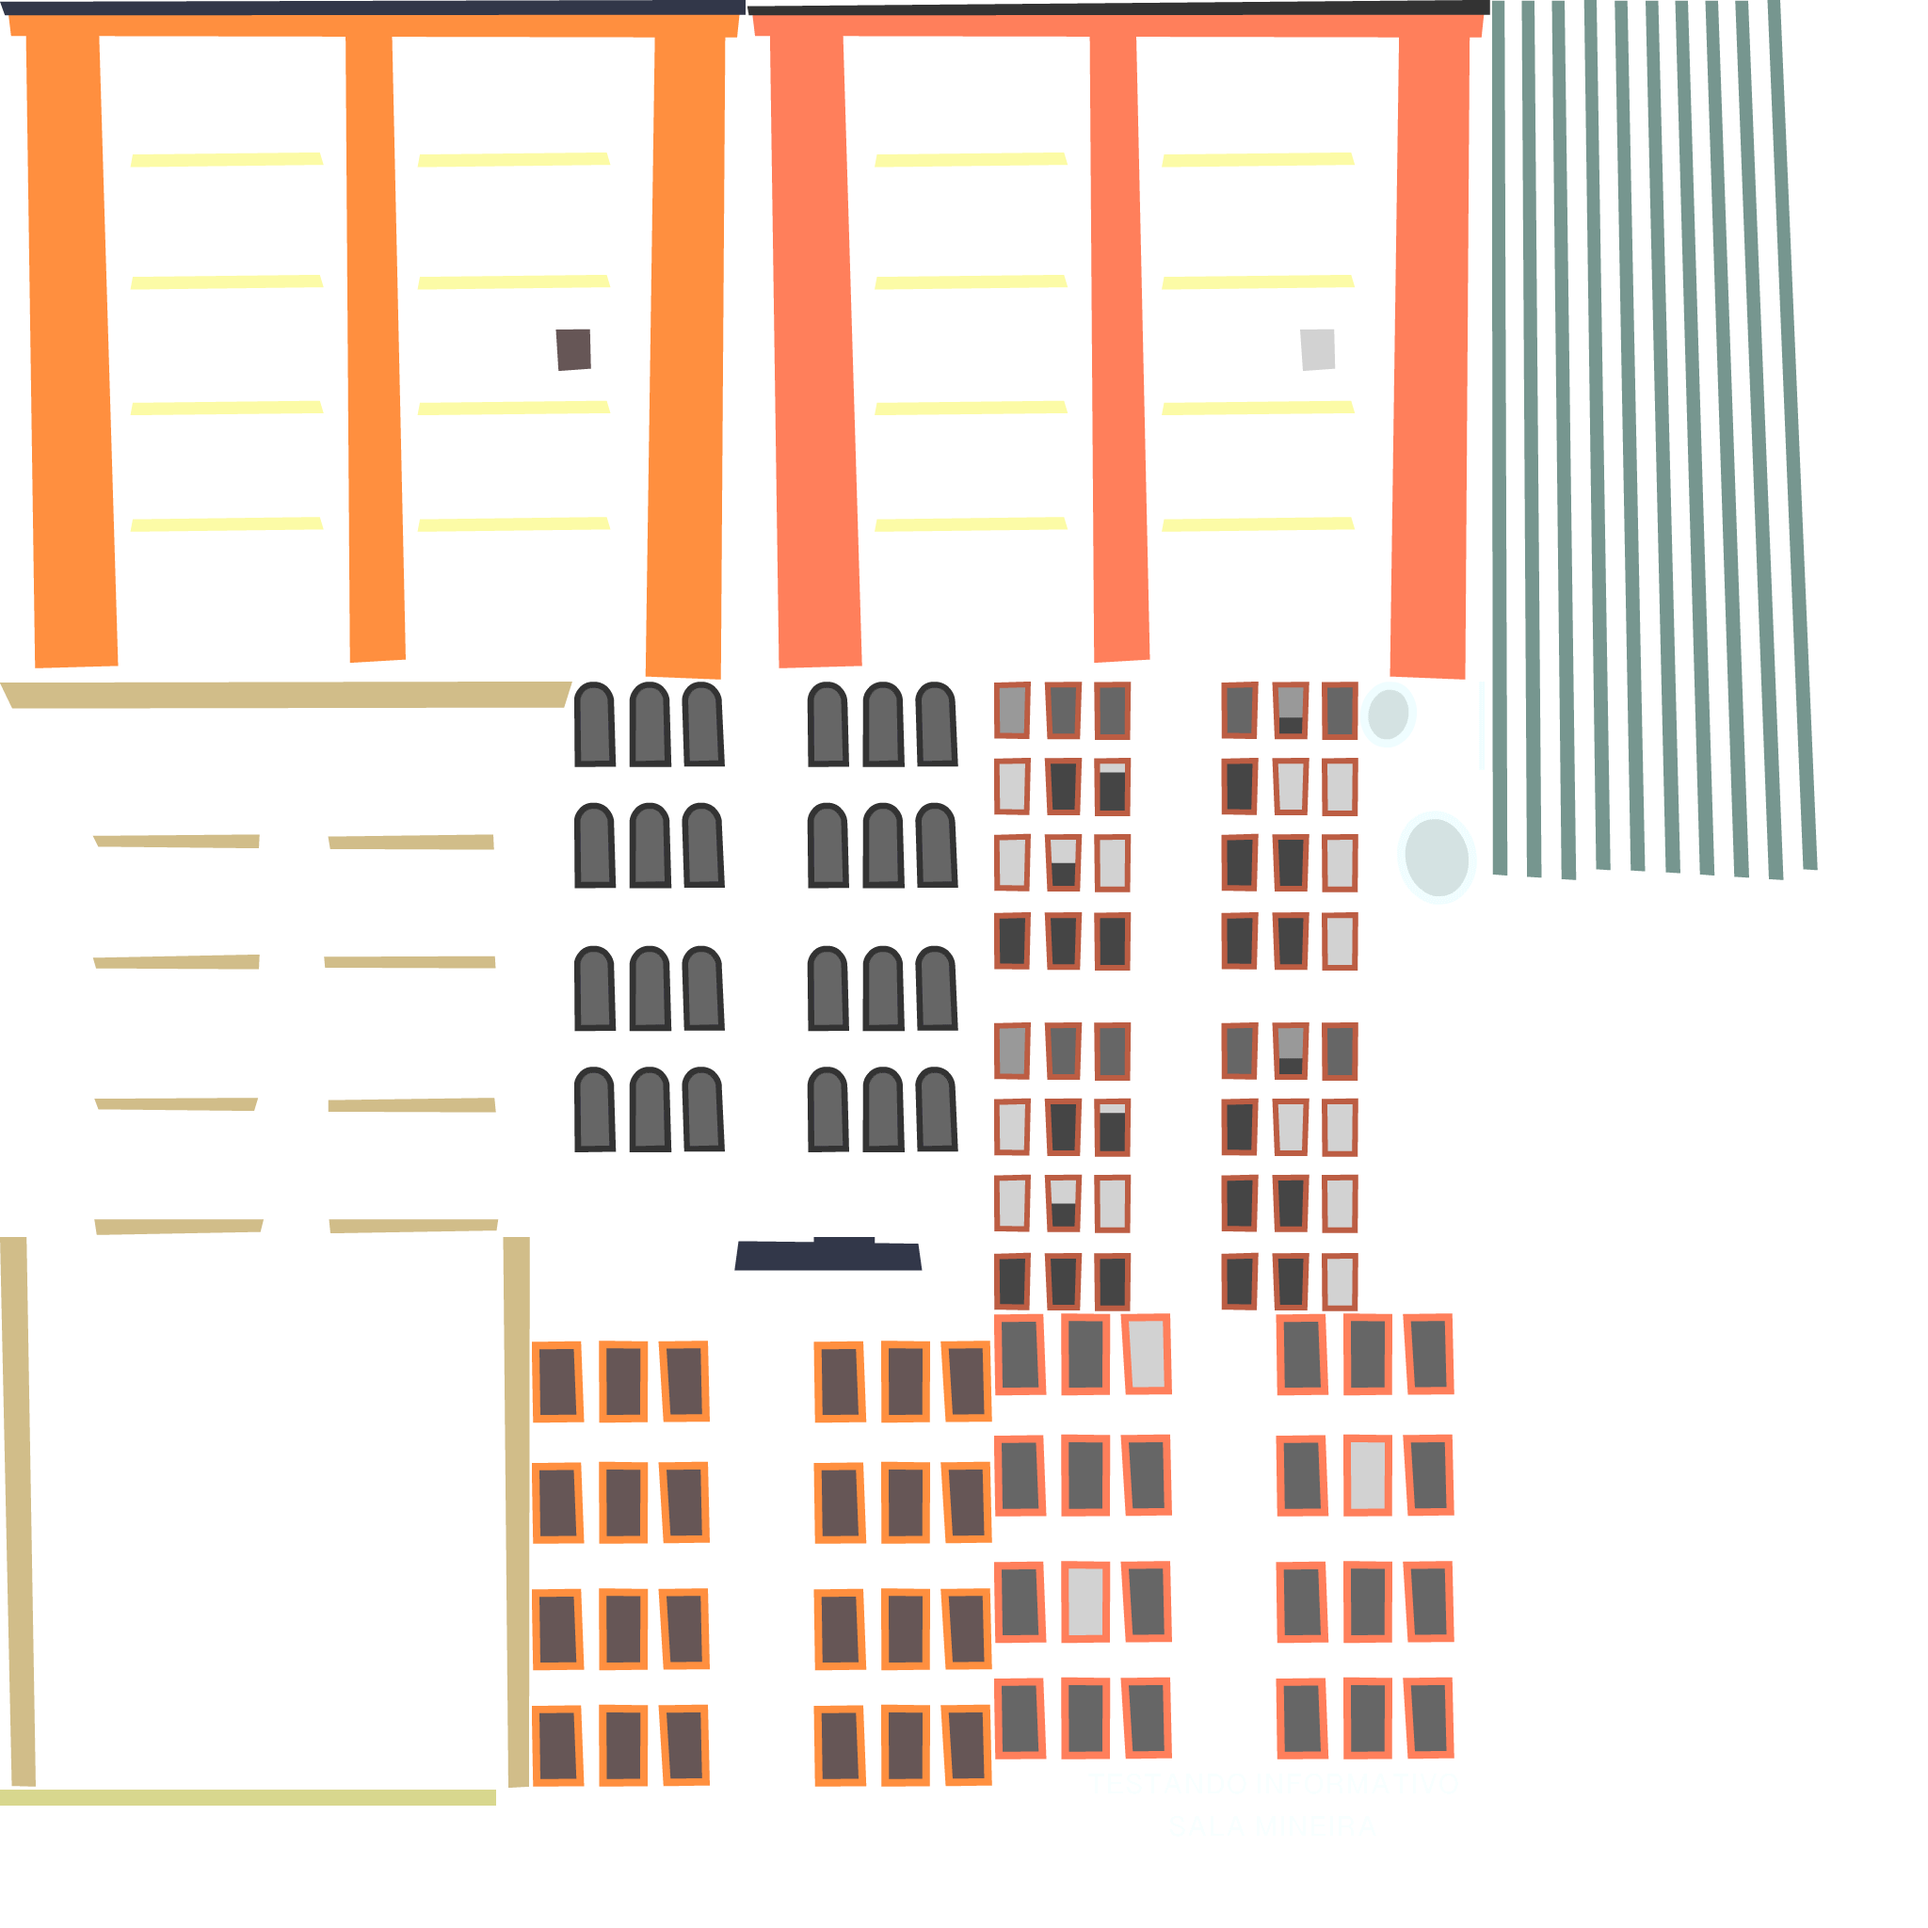
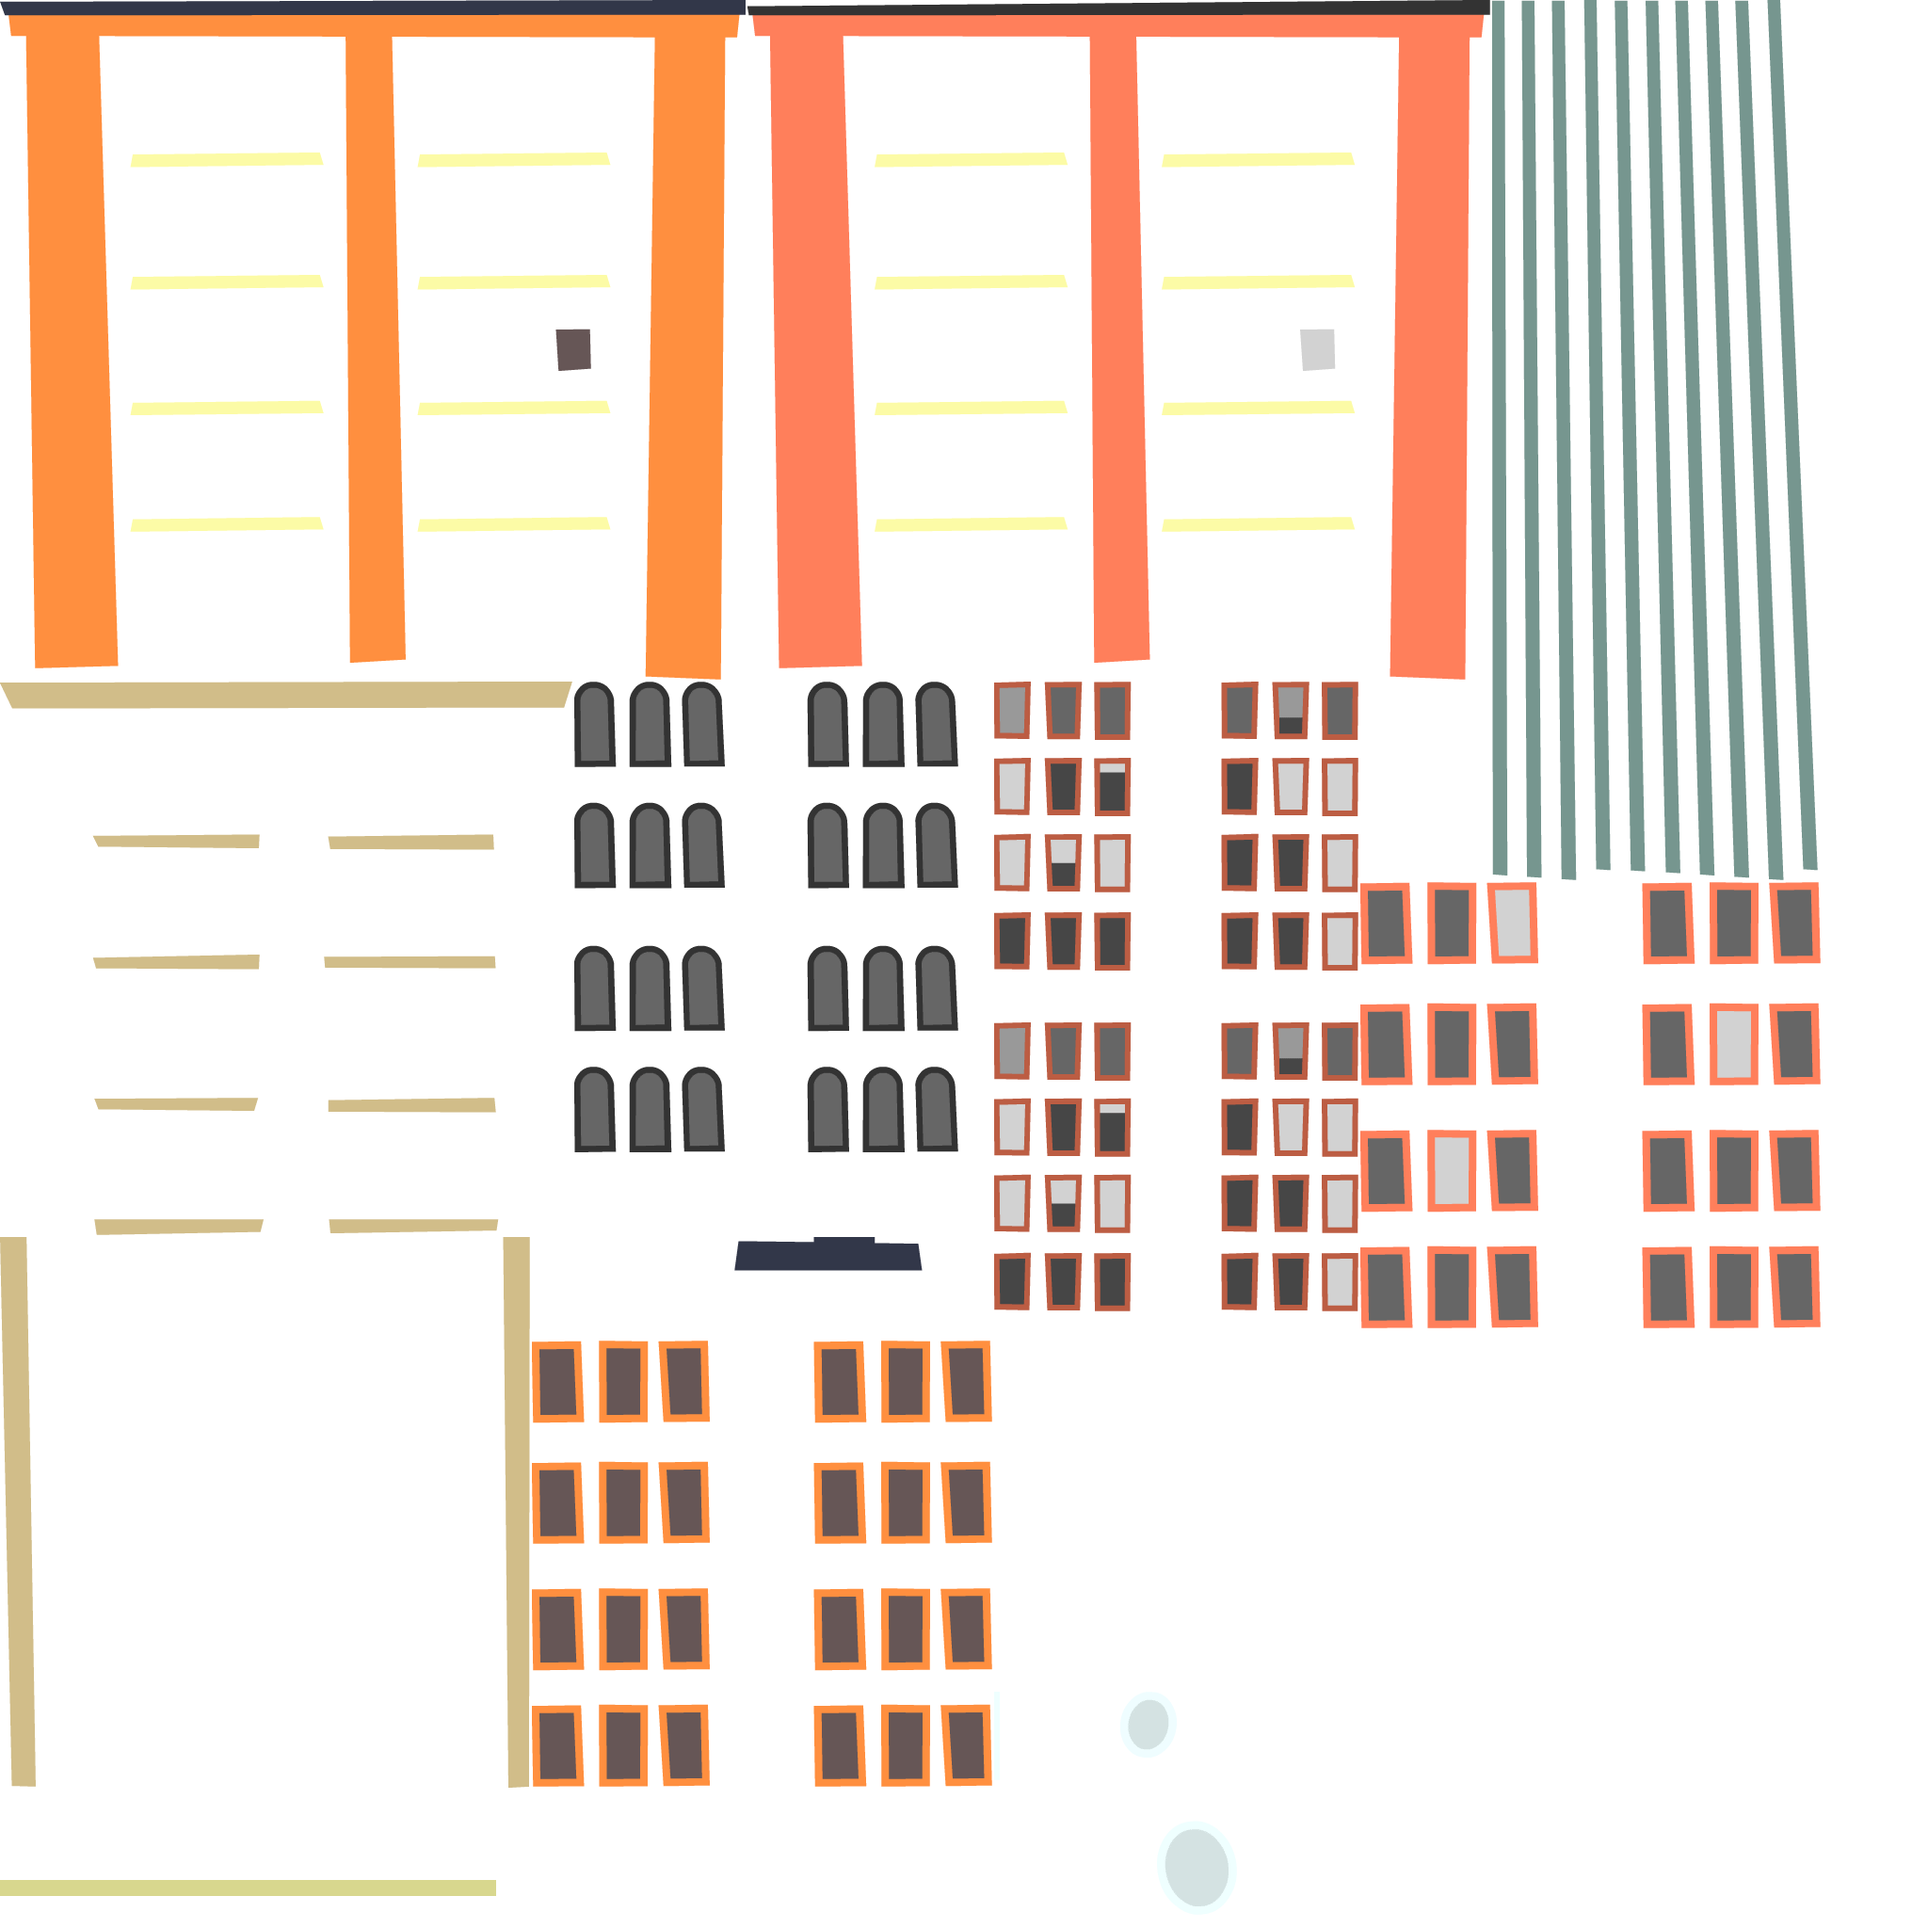
ads

diff --git a/ads.js b/ads.js
@@ -3,7 +3,7 @@
 var p; // shortcut to reference prototypes
 var lib={};var ss={};var img={};
 lib.ssMetadata = [
-		{name:"ads_atlas_1", frames: [[1585,0,346,935],[1445,724,124,237],[1571,724,6,94],[0,0,792,722],[565,1314,489,584],[1056,724,387,669],[610,724,408,500],[0,1314,563,585],[0,1901,527,17],[0,724,608,588],[794,0,789,722],[1056,1395,489,474],[1056,1871,593,94]]}
+		{name:"ads_atlas_1", frames: [[1585,0,346,935],[1190,1797,124,237],[1056,1797,6,94],[0,0,792,722],[565,1314,489,584],[1056,724,387,669],[610,724,408,500],[0,1314,563,585],[0,1997,527,17],[0,724,608,588],[794,0,789,722],[1445,937,489,474],[0,1901,593,94],[595,1900,593,94],[1190,1413,593,94],[1190,1509,593,94],[1056,1605,593,94],[1056,1701,593,94]]}
 ];
 
 
@@ -123,9 +123,44 @@ p.nominalBounds = new cjs.Rectangle(0,0,3105,1339);
 
 
 
-(lib.CachedBmp_1 = function() {
+(lib.CachedBmp_21 = function() {
 	this.initialize(ss["ads_atlas_1"]);
 	this.gotoAndStop(12);
+}).prototype = p = new cjs.Sprite();
+
+
+
+(lib.CachedBmp_20 = function() {
+	this.initialize(ss["ads_atlas_1"]);
+	this.gotoAndStop(13);
+}).prototype = p = new cjs.Sprite();
+
+
+
+(lib.CachedBmp_19 = function() {
+	this.initialize(ss["ads_atlas_1"]);
+	this.gotoAndStop(14);
+}).prototype = p = new cjs.Sprite();
+
+
+
+(lib.CachedBmp_18 = function() {
+	this.initialize(ss["ads_atlas_1"]);
+	this.gotoAndStop(15);
+}).prototype = p = new cjs.Sprite();
+
+
+
+(lib.CachedBmp_17 = function() {
+	this.initialize(ss["ads_atlas_1"]);
+	this.gotoAndStop(16);
+}).prototype = p = new cjs.Sprite();
+
+
+
+(lib.CachedBmp_16 = function() {
+	this.initialize(ss["ads_atlas_1"]);
+	this.gotoAndStop(17);
 }).prototype = p = new cjs.Sprite();
 
 
@@ -854,6 +889,144 @@ if (reversed == null) { reversed = false; }
 p.nominalBounds = new cjs.Rectangle(-197.4,-271.2,394.5,452.6);
 
 
+(lib.Interpolação8 = function(mode,startPosition,loop,reversed) {
+if (loop == null) { loop = true; }
+if (reversed == null) { reversed = false; }
+	var props = new Object();
+	props.mode = mode;
+	props.startPosition = startPosition;
+	props.labels = {};
+	props.loop = loop;
+	props.reversed = reversed;
+	cjs.MovieClip.apply(this,[props]);
+
+	// Camada_1
+	this.instance = new lib.CachedBmp_21();
+	this.instance.setTransform(-148.15,-23.6,0.5,0.5);
+
+	this.timeline.addTween(cjs.Tween.get(this.instance).wait(1));
+
+	this._renderFirstFrame();
+
+}).prototype = p = new cjs.MovieClip();
+p.nominalBounds = new cjs.Rectangle(-148.1,-23.6,296.5,47);
+
+
+(lib.Interpolação7 = function(mode,startPosition,loop,reversed) {
+if (loop == null) { loop = true; }
+if (reversed == null) { reversed = false; }
+	var props = new Object();
+	props.mode = mode;
+	props.startPosition = startPosition;
+	props.labels = {};
+	props.loop = loop;
+	props.reversed = reversed;
+	cjs.MovieClip.apply(this,[props]);
+
+	// Camada_1
+	this.instance = new lib.CachedBmp_20();
+	this.instance.setTransform(-148.15,-23.6,0.5,0.5);
+
+	this.timeline.addTween(cjs.Tween.get(this.instance).wait(1));
+
+	this._renderFirstFrame();
+
+}).prototype = p = new cjs.MovieClip();
+p.nominalBounds = new cjs.Rectangle(-148.1,-23.6,296.5,47);
+
+
+(lib.Interpolação6 = function(mode,startPosition,loop,reversed) {
+if (loop == null) { loop = true; }
+if (reversed == null) { reversed = false; }
+	var props = new Object();
+	props.mode = mode;
+	props.startPosition = startPosition;
+	props.labels = {};
+	props.loop = loop;
+	props.reversed = reversed;
+	cjs.MovieClip.apply(this,[props]);
+
+	// Camada_1
+	this.instance = new lib.CachedBmp_19();
+	this.instance.setTransform(-148.15,-23.6,0.5,0.5);
+
+	this.timeline.addTween(cjs.Tween.get(this.instance).wait(1));
+
+	this._renderFirstFrame();
+
+}).prototype = p = new cjs.MovieClip();
+p.nominalBounds = new cjs.Rectangle(-148.1,-23.6,296.5,47);
+
+
+(lib.Interpolação5 = function(mode,startPosition,loop,reversed) {
+if (loop == null) { loop = true; }
+if (reversed == null) { reversed = false; }
+	var props = new Object();
+	props.mode = mode;
+	props.startPosition = startPosition;
+	props.labels = {};
+	props.loop = loop;
+	props.reversed = reversed;
+	cjs.MovieClip.apply(this,[props]);
+
+	// Camada_1
+	this.instance = new lib.CachedBmp_18();
+	this.instance.setTransform(-148.15,-23.6,0.5,0.5);
+
+	this.timeline.addTween(cjs.Tween.get(this.instance).wait(1));
+
+	this._renderFirstFrame();
+
+}).prototype = p = new cjs.MovieClip();
+p.nominalBounds = new cjs.Rectangle(-148.1,-23.6,296.5,47);
+
+
+(lib.Interpolação4 = function(mode,startPosition,loop,reversed) {
+if (loop == null) { loop = true; }
+if (reversed == null) { reversed = false; }
+	var props = new Object();
+	props.mode = mode;
+	props.startPosition = startPosition;
+	props.labels = {};
+	props.loop = loop;
+	props.reversed = reversed;
+	cjs.MovieClip.apply(this,[props]);
+
+	// Camada_1
+	this.instance = new lib.CachedBmp_17();
+	this.instance.setTransform(-148.15,-23.6,0.5,0.5);
+
+	this.timeline.addTween(cjs.Tween.get(this.instance).wait(1));
+
+	this._renderFirstFrame();
+
+}).prototype = p = new cjs.MovieClip();
+p.nominalBounds = new cjs.Rectangle(-148.1,-23.6,296.5,47);
+
+
+(lib.Interpolação3 = function(mode,startPosition,loop,reversed) {
+if (loop == null) { loop = true; }
+if (reversed == null) { reversed = false; }
+	var props = new Object();
+	props.mode = mode;
+	props.startPosition = startPosition;
+	props.labels = {};
+	props.loop = loop;
+	props.reversed = reversed;
+	cjs.MovieClip.apply(this,[props]);
+
+	// Camada_1
+	this.instance = new lib.CachedBmp_16();
+	this.instance.setTransform(-148.15,-23.6,0.5,0.5);
+
+	this.timeline.addTween(cjs.Tween.get(this.instance).wait(1));
+
+	this._renderFirstFrame();
+
+}).prototype = p = new cjs.MovieClip();
+p.nominalBounds = new cjs.Rectangle(-148.1,-23.6,296.5,47);
+
+
 (lib.Skyscrapers = function(mode,startPosition,loop,reversed) {
 if (loop == null) { loop = true; }
 if (reversed == null) { reversed = false; }
@@ -1062,21 +1235,47 @@ if (reversed == null) { reversed = false; }
 	cjs.MovieClip.apply(this,[props]);
 
 	// TESTANDO_INFORMATIVO_SALA_MINEIRA
-	this.instance = new lib.CachedBmp_1();
-	this.instance.setTransform(183.45,7.8,0.5,0.5);
+	this.instance = new lib.Interpolação3("synched",0);
+	this.instance.setTransform(331.6,82.9);
 
-	this.timeline.addTween(cjs.Tween.get(this.instance).wait(204));
+	this.instance_1 = new lib.Interpolação4("synched",0);
+	this.instance_1.setTransform(341.9,31.4);
+	this.instance_1._off = true;
+
+	this.instance_2 = new lib.Interpolação5("synched",0);
+	this.instance_2.setTransform(593.8,31.4);
+	this.instance_2._off = true;
+
+	this.instance_3 = new lib.Interpolação6("synched",0);
+	this.instance_3.setTransform(162.7,31.4);
+	this.instance_3._off = true;
+
+	this.instance_4 = new lib.Interpolação7("synched",0);
+	this.instance_4.setTransform(407.35,31.4);
+	this.instance_4._off = true;
+
+	this.instance_5 = new lib.Interpolação8("synched",0);
+	this.instance_5.setTransform(407.35,106.1);
+
+	this.timeline.addTween(cjs.Tween.get({}).to({state:[{t:this.instance}]}).to({state:[{t:this.instance_1}]},39).to({state:[{t:this.instance_2}]},52).to({state:[{t:this.instance_3}]},66).to({state:[{t:this.instance_4}]},32).to({state:[{t:this.instance_5}]},14).wait(1));
+	this.timeline.addTween(cjs.Tween.get(this.instance).to({_off:true,x:341.9,y:31.4},39).wait(165));
+	this.timeline.addTween(cjs.Tween.get(this.instance_1).to({_off:false},39).to({_off:true,x:593.8},52).wait(113));
+	this.timeline.addTween(cjs.Tween.get(this.instance_2).wait(39).to({_off:false},52).to({_off:true,x:162.7},66).wait(47));
+	this.timeline.addTween(cjs.Tween.get(this.instance_3).wait(91).to({_off:false},66).to({_off:true,x:407.35},32).wait(15));
+	this.timeline.addTween(cjs.Tween.get(this.instance_4).wait(157).to({_off:false},32).to({_off:true,y:106.1},14).wait(1));
 
 	// Skyscrapers
-	this.instance_1 = new lib.Skyscrapers("synched",0);
-	this.instance_1.setTransform(728.6,27.3,0.5418,0.1798,0,0,0,1344.8,566.1);
+	this.instance_6 = new lib.Skyscrapers("synched",0);
+	this.instance_6.setTransform(358.1,27.3,0.275,0.1798,0,0,0,1344.6,566.1);
+	this.instance_6.filters = [new cjs.ColorFilter(0.21, 0.21, 0.21, 1, 0, 0, 0, 0)];
+	this.instance_6.cache(-2,-2,2694,724);
 
-	this.timeline.addTween(cjs.Tween.get(this.instance_1).to({x:-0.9},203).wait(1));
+	this.timeline.addTween(cjs.Tween.get(this.instance_6).to({regY:565.9,scaleX:0.3009,x:404.55},185).to({regY:566.1,scaleX:0.3034,x:361},18).wait(1));
 
 	this._renderFirstFrame();
 
 }).prototype = p = new lib.AnMovieClip();
-p.nominalBounds = new cjs.Rectangle(-365.5,-47,1823,102.1);
+p.nominalBounds = new cjs.Rectangle(317,-47,492.5,176.5);
 // library properties:
 lib.properties = {
 	id: 'A664CCAF611F4D20AD0F1519E0FF74CD',
